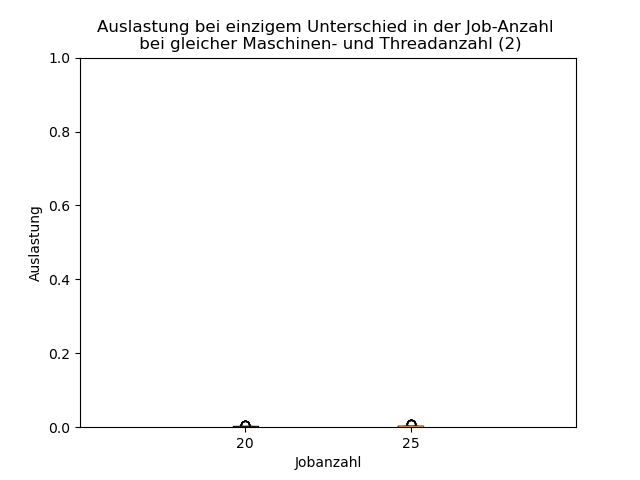
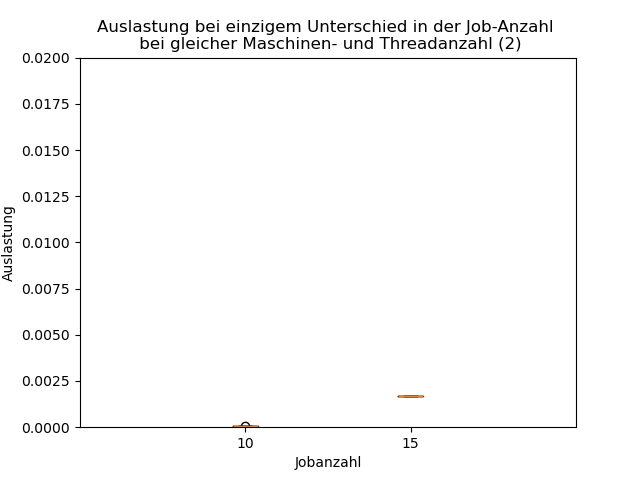
change script

diff --git a/tracking_output/basic/basic_plotting.py b/tracking_output/basic/basic_plotting.py
@@ -32,7 +32,7 @@ for name in os.listdir(directory):
         # Add all lines relevant for tracking
         for line in file:
             line.strip()
-            if "[tracking]"  in line and not "queries" in line:
+            if "[tracking]"  in line:
                 tracking_lines.append(line)
     
     # Delete line delimiters and [tracking] keyword
@@ -42,6 +42,7 @@ for name in os.listdir(directory):
             line = line.split(" ")
             line = line[1:3] + line[4:]
             tracking_values.append(line)
+            print(line)
 
     # Probably later prettier but in basic the only necessary numbers are the timestamp line[0] and percentage line[-1]
     for line in tracking_values:
@@ -68,10 +69,10 @@ print(values)
 max_value = math.ceil(max(max(sub_list) for sub_list in values[1]))
 min_value = math.floor(min(min(sub_list) for sub_list in values[1]))
 
-plt.boxplot(x=values[1], tick_labels=[20,25])
+plt.boxplot(x=values[1], tick_labels=[10,15])
 
 plt.xlim([0, len(values[0])+1])
-plt.ylim([min_value, max_value])
+plt.ylim([min_value, 0.02])
 
 plt.title("Auslastung bei einzigem Unterschied in der Job-Anzahl \n bei gleicher Maschinen- und Threadanzahl (2)")
 plt.xlabel("Jobanzahl")
